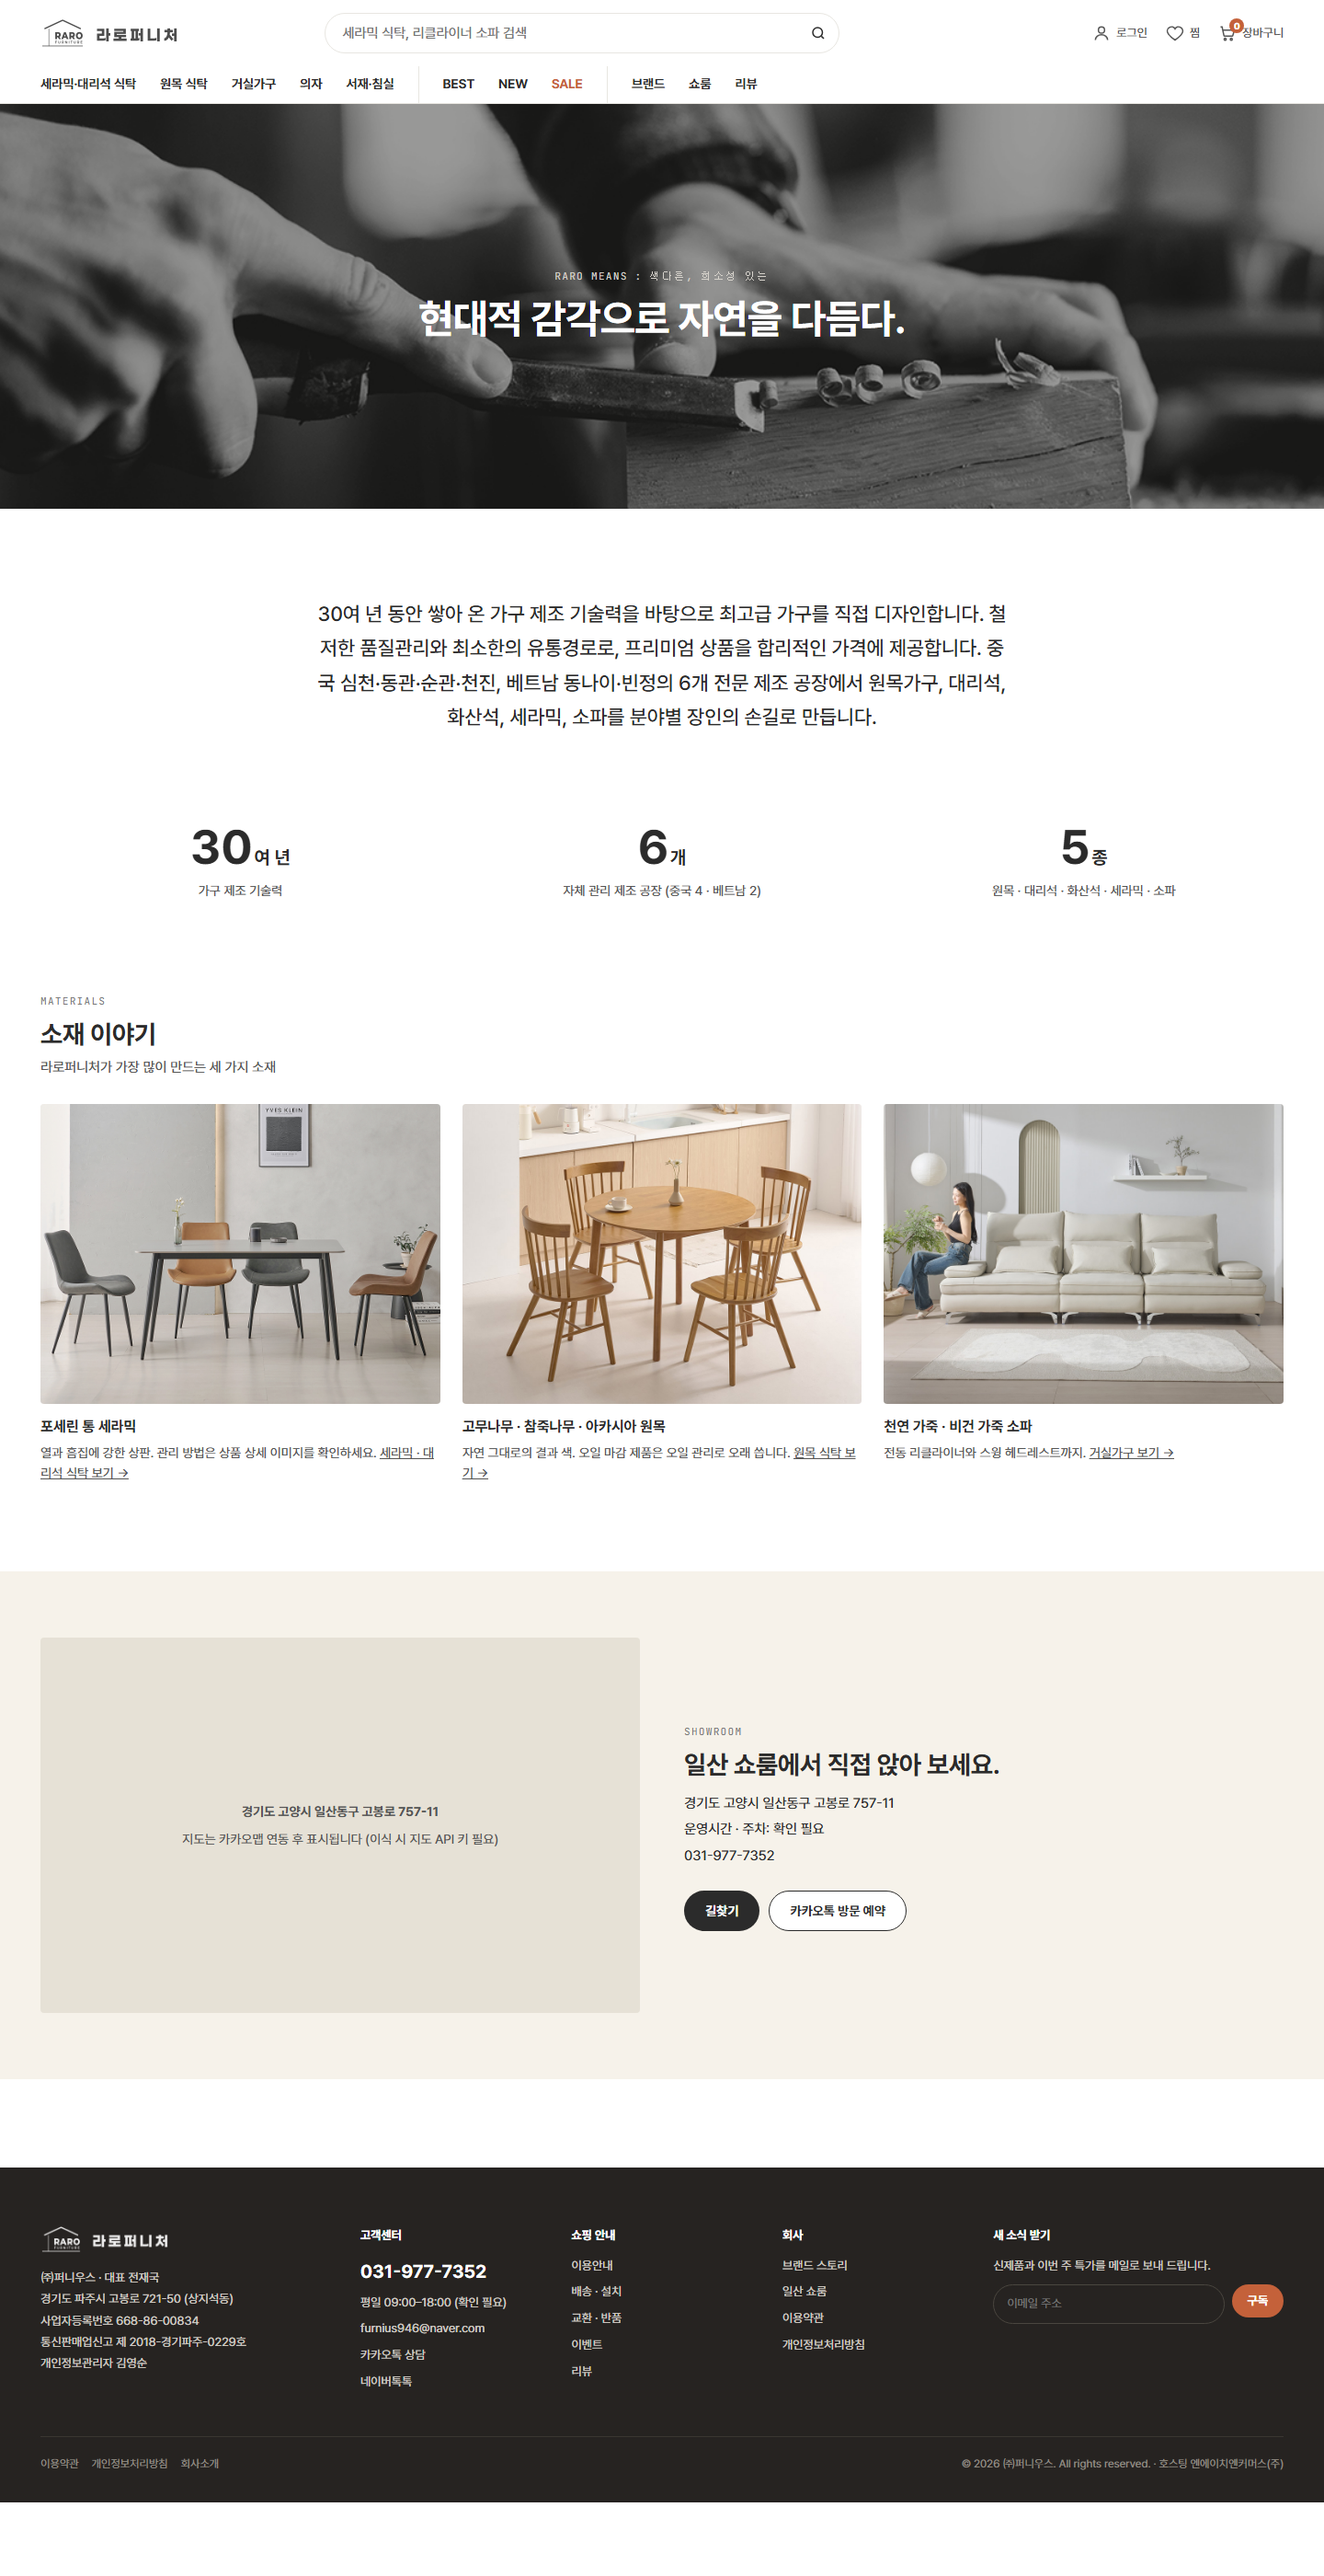
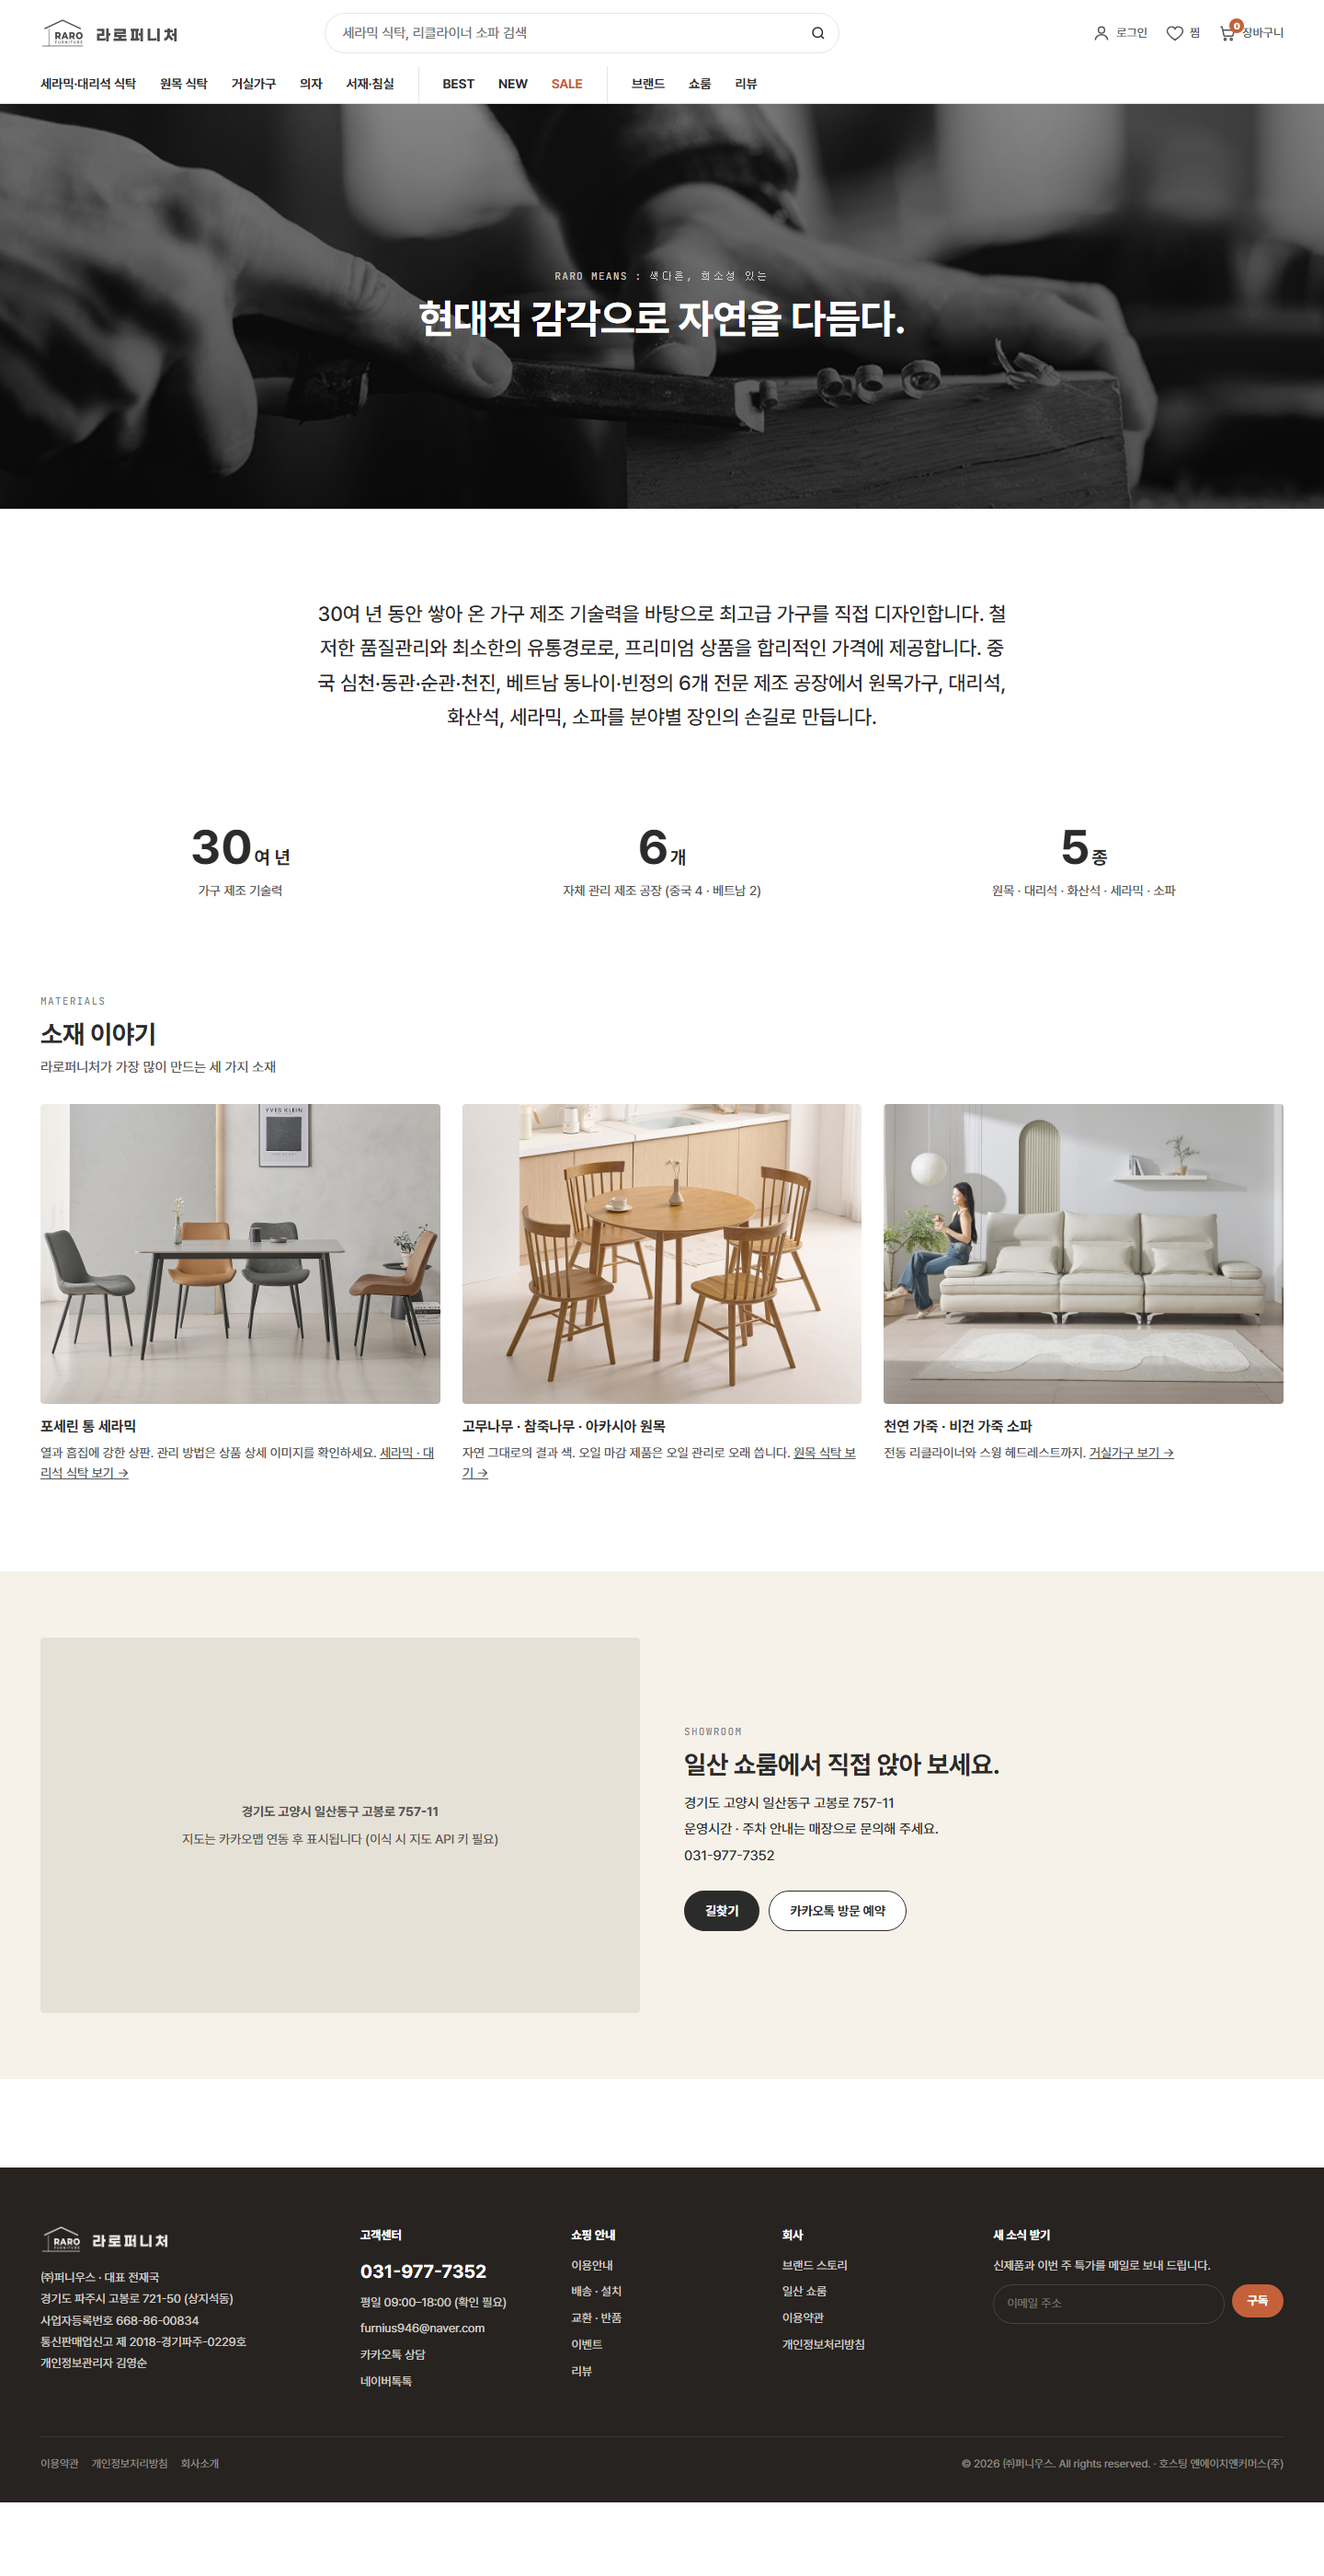
fix(brand): 쇼룸 안내 문구, 히어로 텍스트 스크림, 오류 상태 마크업

Changed region(s): [[0.0, 0.0311, 1.0, 0.2175], [0.875, 0.0621, 0.9062, 0.0932], [0.5938, 0.6836, 0.625, 0.7146]]

diff --git a/assets/app.js b/assets/app.js
@@ -482,7 +482,7 @@ window.RARO = (function () {
       + '<div class="buy__ship">' + (d.shipping ? '배송비 ' + esc(d.shipping) : '배송비는 옵션 선택 후 표시됩니다') + '</div>'
       + (d.options.length ? '<span class="label">' + esc(d.optionLabel || '구성 선택') + '</span><div data-options role="radiogroup" aria-label="' + esc(d.optionLabel || '구성 선택') + '">' + d.options.map((o, i) =>
         '<div class="opt' + (i === oi ? ' is-on' : '') + '" data-i="' + i + '" role="radio" aria-checked="' + (i === oi) + '" tabindex="' + (i === oi ? '0' : '-1') + '"><span>' + esc(o.name) + '</span><b>' + optionPrice(o, i) + '</b></div>').join('') + '</div>'
-        + (d.optionLevels > 1 ? '<p class="muted" style="font-size:12px;margin-top:6px">색상 등 추가 옵션은 실제 사이트에서 다음 단계로 선택합니다. (확인 필요)</p>' : '') : '')
+        + (d.optionLevels > 1 ? '<p class="muted" style="font-size:12px;margin-top:6px">색상 등 추가 옵션은 실제 사이트에서 다음 단계로 선택합니다. (실제 사이트 연동 시 표시)</p>' : '') : '')
       + (p.colors && p.colors.length ? '<span class="label">색상</span><div class="swatches" role="radiogroup" aria-label="색상">' + p.colors.map((c, i) =>
         '<button type="button" class="swatch' + (i === 0 ? ' is-on' : '') + '" role="radio" aria-checked="' + (i === 0) + '" tabindex="' + (i === 0 ? '0' : '-1') + '" style="background:' + esc(c.hex) + '" title="' + esc(c.name) + '" aria-label="' + esc(c.name) + '"></button>').join('') + '</div>' : '')
       + '<div class="buy__qty"><span>수량</span><div class="qty"><button type="button" data-qty="-1" aria-label="수량 줄이기">−</button><span data-qty-val aria-live="polite">1</span><button type="button" data-qty="1" aria-label="수량 늘리기">+</button></div></div>'
@@ -618,7 +618,7 @@ window.RARO = (function () {
     /* 리뷰 요약: 별점 집계는 사이트에 없으므로 개수만 */
     const mine = data.home.reviews.filter((r) => r.goodsNo === p.no);
     document.querySelector('[data-rsum]').innerHTML = '<div><div class="rsum__score">' + reviewCount + '<small style="font-size:16px"> 개</small></div>'
-      + '<div class="muted" style="font-size:13px;margin-top:6px">별점 평균과 분포는 실제 사이트 리뷰 게시판 연동 시 표시됩니다. (확인 필요)</div></div>'
+      + '<div class="muted" style="font-size:13px;margin-top:6px">별점 평균과 분포는 실제 사이트 리뷰 게시판 연동 시 표시됩니다. (실제 사이트 연동 시 표시)</div></div>'
       + '<div class="rsum__photos">' + mine.map((r) => '<div class="review"><div class="review__img">' + img(r.img, '후기 사진') + '</div><p class="review__text">' + esc(r.text) + '</p></div>').join('')
       + Array.from({ length: Math.max(0, 4 - mine.length) }).map(() => '<div class="ph">사진 후기</div>').join('') + '</div>';
     /* 함께 보기 */
@@ -651,7 +651,7 @@ window.RARO = (function () {
       const src = rep ? ((rep.detail && rep.detail.gallery[1]) || rep.image) : '';
       return '<a class="feat" href="list.html?cate=' + code + '"><div class="feat__img">' + img(src, t) + '</div><h4>' + esc(t) + '</h4><p>' + esc(b) + ' <u>' + esc(topName(code)) + ' 보기 →</u></p></a>';
     }).join('');
-    document.querySelector('[data-showroom]').innerHTML = esc(c.showroom) + '<br>운영시간 · 주차: ' + esc(c.showroomHours) + '<br><a href="tel:' + esc(c.tel.replace(/-/g, '')) + '">' + esc(c.tel) + '</a>';
+    document.querySelector('[data-showroom]').innerHTML = esc(c.showroom) + '<br>운영시간 · 주차 안내는 매장으로 문의해 주세요.<br><a href="tel:' + esc(c.tel.replace(/-/g, '')) + '">' + esc(c.tel) + '</a>';
     document.querySelector('[data-map]').innerHTML = '<strong>' + esc(c.showroom) + '</strong><span>지도는 카카오맵 연동 후 표시됩니다 (이식 시 지도 API 키 필요)</span>';
     document.querySelector('[data-map-link]').href = 'https://map.kakao.com/link/search/' + encodeURIComponent(c.showroom);
   };

diff --git a/assets/style.css b/assets/style.css
@@ -298,8 +298,9 @@ body.has-buybar .chat-fab { bottom: 84px; }   /* 하단 구매 바와 겹치지 
 
 /* ---------- 11. 브랜드 ---------- */
 .bhero { position: relative; height: 440px; overflow: hidden; background: #2E2C2A; }
-.bhero img { width: 100%; height: 100%; object-fit: cover; opacity: .7; }
-.bhero__text { position: absolute; inset: 0; display: flex; flex-direction: column; align-items: center; justify-content: center; text-align: center; color: #fff; padding: 0 var(--gutter); }
+.bhero img { width: 100%; height: 100%; object-fit: cover; opacity: .85; }
+.bhero::before { content: ""; position: absolute; inset: 0; background: linear-gradient(rgba(0,0,0,.25), rgba(0,0,0,.55)); z-index: 1; }
+.bhero__text { position: absolute; inset: 0; z-index: 2; display: flex; flex-direction: column; align-items: center; justify-content: center; text-align: center; color: #fff; padding: 0 var(--gutter); }
 .bhero__text .label { color: #D6D2CB; margin-bottom: 12px; }
 .bhero__text .h1 { color: #fff; }
 .statement { max-width: 760px; margin: 0 auto; text-align: center; font-size: 22px; line-height: 1.7; font-weight: 500; }
